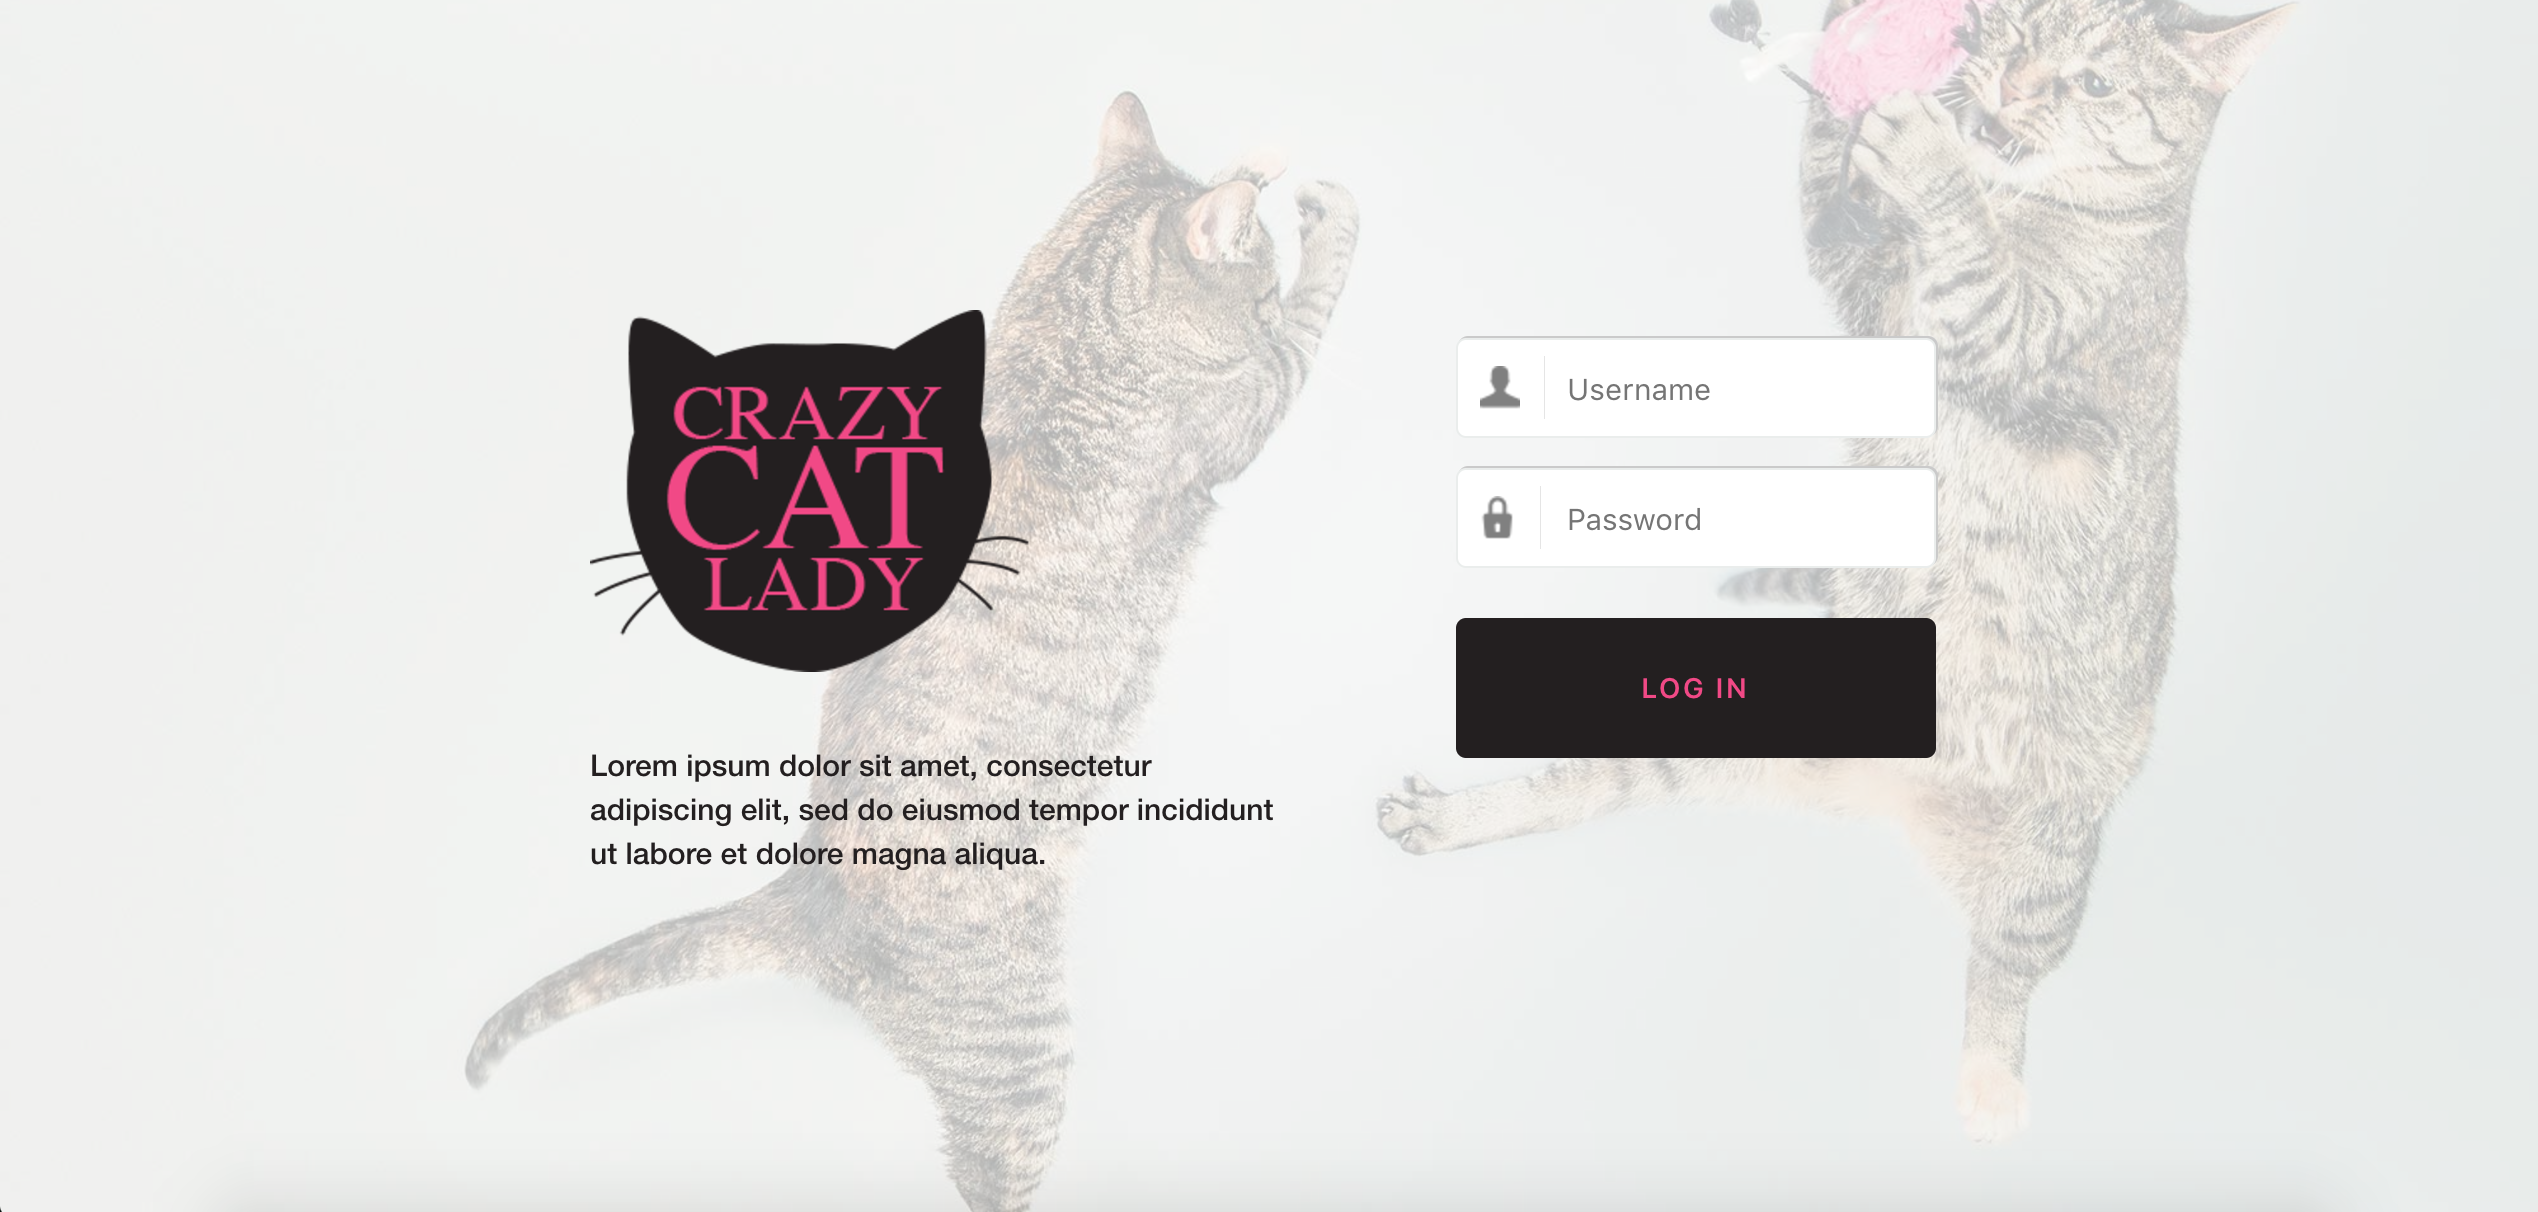
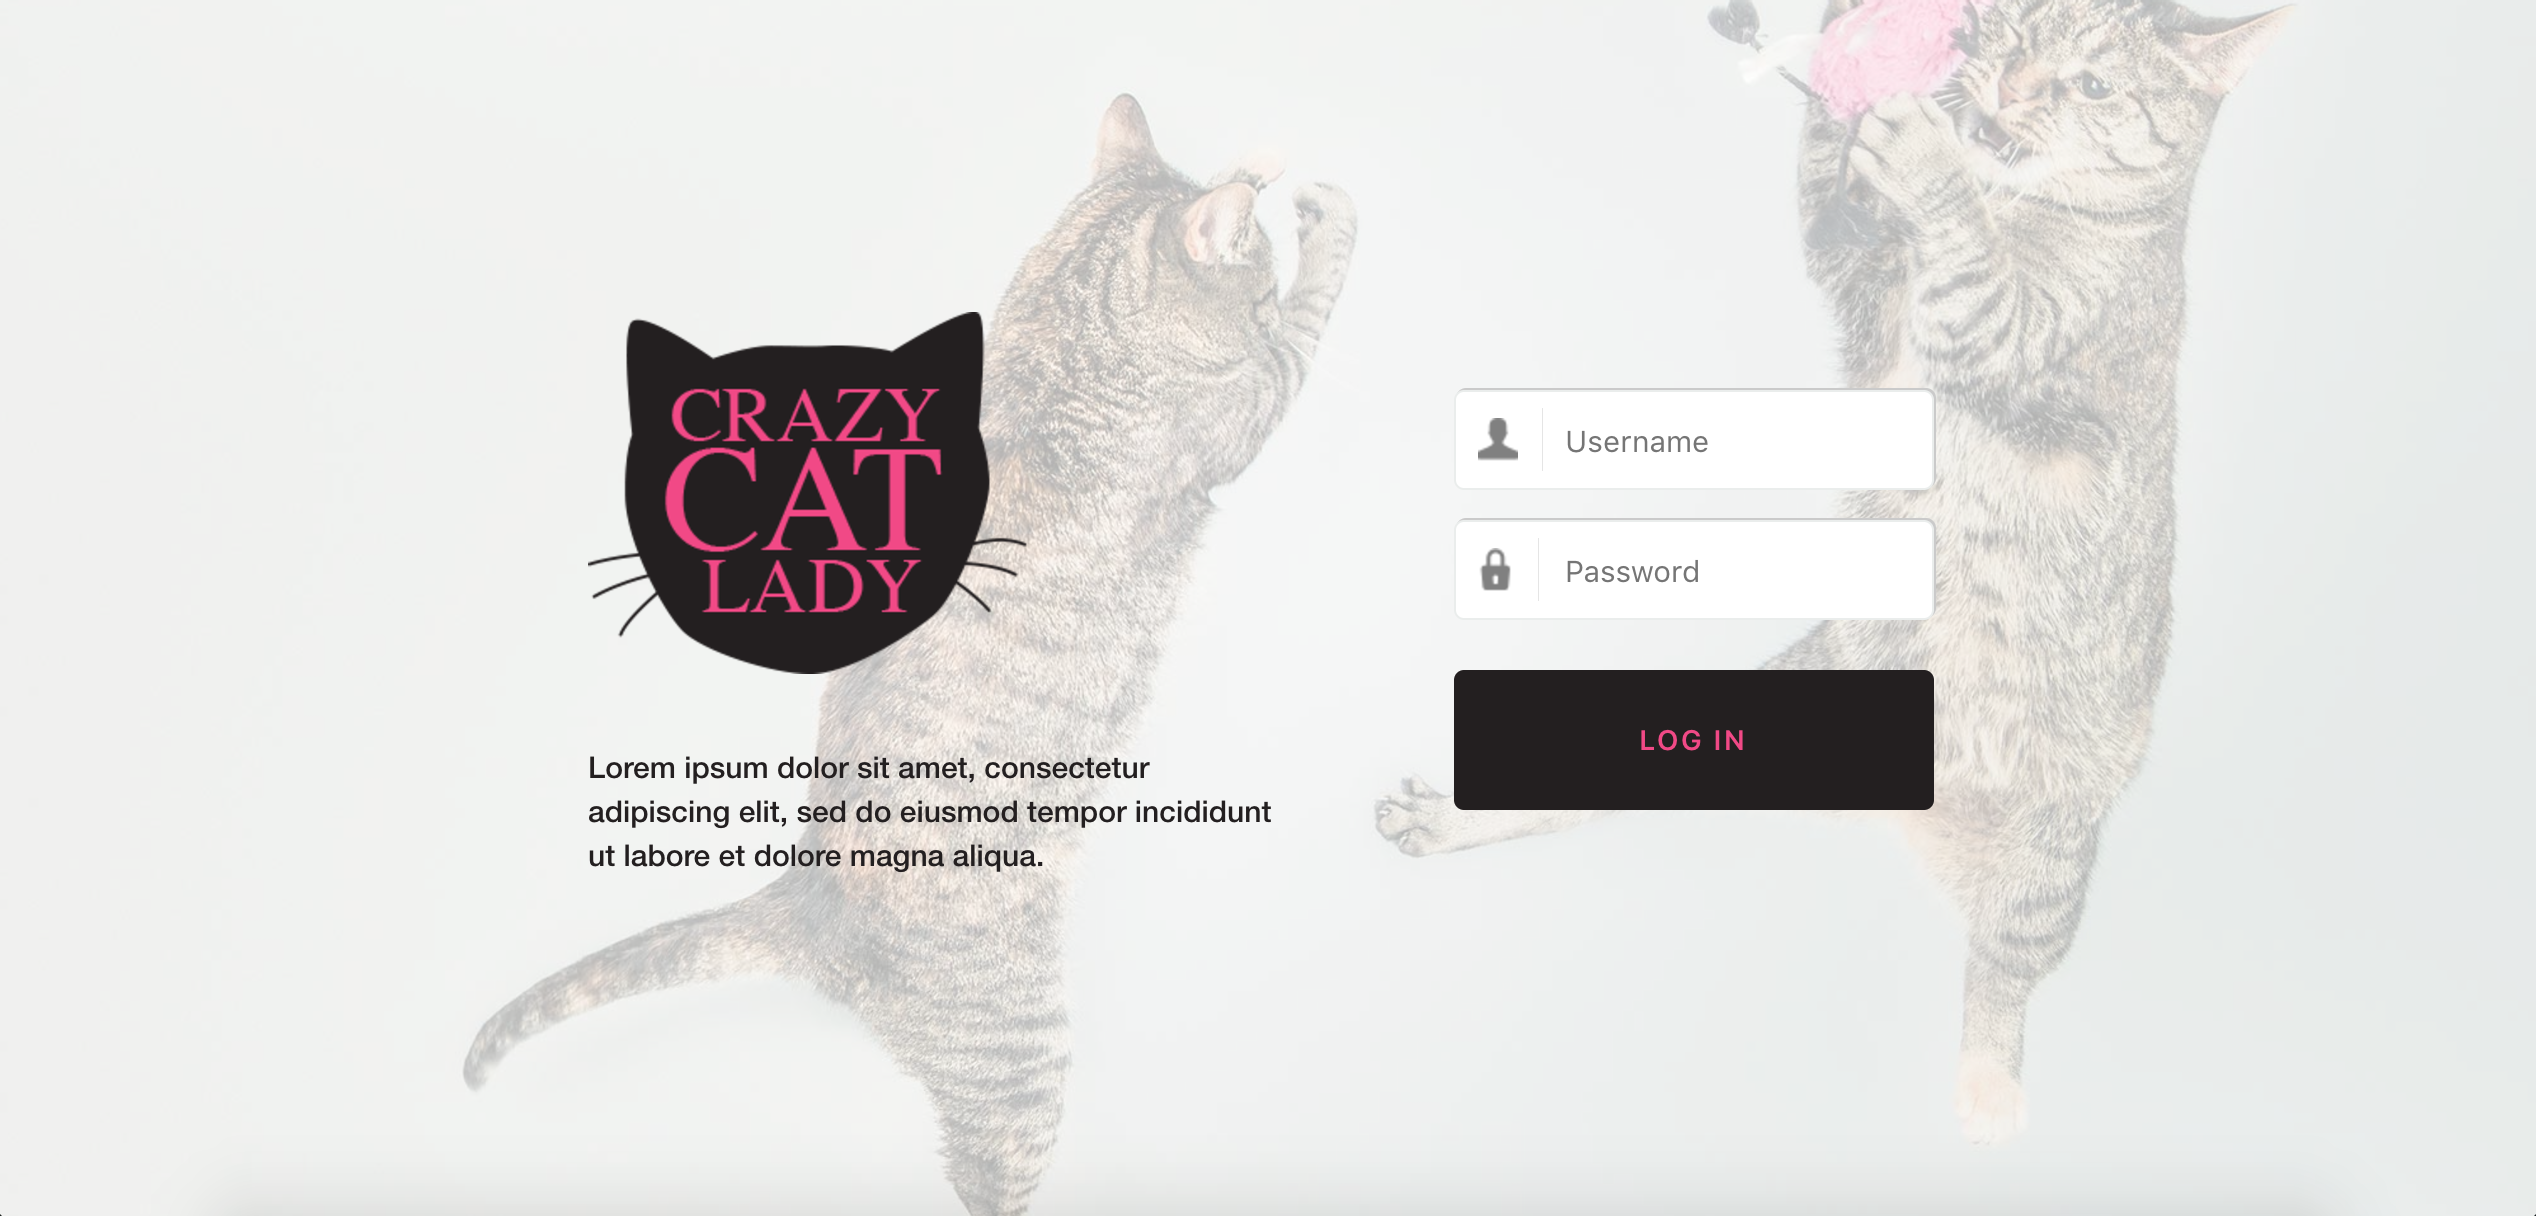
updated form margin

diff --git a/app/assets/css/style.min.css b/app/assets/css/style.min.css
@@ -6,5 +6,5 @@
  * @version 1.0.5
  * Copyright 2017. MIT licensed.
  */
-html{font-size:62.5%}body{background:#fff;color:#231f20;font-family:Lato,Helvetica Neue,Arial,Helvetica,sans-serif;font-size:14px;font-size:1.4rem;line-height:1.5;margin:0;padding:0;font-smoothing:antialiased;-webkit-font-smoothing:antialiased;-moz-font-smoothing:antialiased;-o-font-smoothing:antialiased;text-rendering:optimizeLegibility}button{background:#231f20;border:none;border-radius:5px;color:#f14986;cursor:pointer;font-weight:600;letter-spacing:1px;text-decoration:none!important;transition:all .3s ease}button:active,button:focus,button:hover{background:#f14986;color:#231f20;font-weight:800}input{border-radius:5px;cursor:default}.col2{width:50%}.input-hover{color:#231f20;opacity:1!important}.input-reg{color:#231f20;opacity:.5!important}.side-by-side{-ms-flex-direction:row;flex-direction:row}.side-by-side,.stack{display:-ms-flexbox;display:flex}.stack{-ms-flex-direction:column;flex-direction:column}.btn-full{width:100%;font-size:14px;height:70px;height:7rem;text-transform:uppercase}.input-group{-ms-flex-align:center;align-items:center;display:-ms-flexbox;display:flex;height:30px;height:3rem;margin:35px 0;margin:3.5rem 0;transition:all .3s ease;width:100%}.input-group .form-control{border:1px solid #eaedec;box-shadow:1px -1px #cacaca;font-size:15px;font-size:1.5rem;padding:15px 15px 15px 55px;padding:1.5rem 1.5rem 1.5rem 5.5rem;width:100%}.input-group .form-control:focus{outline:5px auto #f14986}.input-group:active .input-group-addon,.input-group:focus .input-group-addon,.input-group:hover .input-group-addon,.input-group:visited .input-group-addon{opacity:1!important}.input-group:active input::-webkit-input-placeholder,.input-group:focus input::-webkit-input-placeholder,.input-group:hover input::-webkit-input-placeholder,.input-group:visited input::-webkit-input-placeholder{color:#231f20;opacity:1!important}.input-group-addon{-ms-flex-align:center;align-items:center;border-right:1px solid #cacaca;display:-ms-flexbox;display:flex;padding:5px 12px;padding:.5rem 1.2rem;position:absolute;transition:all .3s ease}.login-page-background-image{background-image:url(https://s3.amazonaws.com/btp-front-end-testing/cats.jpg);background-position:50%;background-repeat:no-repeat;background-size:cover;height:100%;position:fixed;opacity:.3;width:100%;z-index:-1}.login-page-container{-ms-flex-align:center;align-items:center;display:-ms-flexbox;display:flex;height:100vh;max-width:800px;max-width:80rem;margin:auto}.login-page-container .login-header-wrapper{font-size:15px;font-weight:500;margin-left:50px;margin-left:5rem}.login-page-container .login-header-wrapper .login-header-text{padding:10px;padding:1rem}.login-page-container .logo-image{height:auto;margin:10px;margin:1rem;max-width:220px;max-width:22rem;width:60%}.login-page-container .login-form-container{margin:auto;margin-bottom:50px;margin-bottom:5rem;width:240px;width:24rem}.login-page-container .login-form-container .input-group:first-child{margin-top:0}@media (max-width:1025px){.login-page-background-image{background-position:70%}}@media (max-width:600px){.login-page-container{-ms-flex-direction:column;flex-direction:column;height:auto}.login-page-container .login-header-text{margin-bottom:45px;margin-bottom:4.5rem;padding:0 30px;padding:0 3rem}.login-page-container .logo-image{margin-top:35px;margin-top:3.5rem}.login-page-container .col2{-ms-flex-align:center;align-items:center;margin:auto;max-width:400px;max-width:40rem;text-align:center;width:100%}}
[1 lines of base64/hex data omitted]
+html{font-size:62.5%}body{background:#fff;color:#231f20;font-family:Lato,Helvetica Neue,Arial,Helvetica,sans-serif;font-size:14px;font-size:1.4rem;line-height:1.5;margin:0;padding:0;font-smoothing:antialiased;-webkit-font-smoothing:antialiased;-moz-font-smoothing:antialiased;-o-font-smoothing:antialiased;text-rendering:optimizeLegibility}button{background:#231f20;border:none;border-radius:5px;color:#f14986;cursor:pointer;font-weight:600;letter-spacing:1px;text-decoration:none!important;transition:all .3s ease}button:active,button:focus,button:hover{background:#f14986;color:#231f20;font-weight:800}input{border-radius:5px;cursor:default}.col2{width:50%}.input-hover{color:#231f20;opacity:1!important}.input-reg{color:#231f20;opacity:.5!important}.side-by-side{-ms-flex-direction:row;flex-direction:row}.side-by-side,.stack{display:-ms-flexbox;display:flex}.stack{-ms-flex-direction:column;flex-direction:column}.btn-full{width:100%;font-size:14px;height:70px;height:7rem;text-transform:uppercase}.input-group{-ms-flex-align:center;align-items:center;display:-ms-flexbox;display:flex;height:30px;height:3rem;margin:35px 0;margin:3.5rem 0;transition:all .3s ease;width:100%}.input-group .form-control{border:1px solid #eaedec;box-shadow:1px -1px #cacaca;font-size:15px;font-size:1.5rem;padding:15px 15px 15px 55px;padding:1.5rem 1.5rem 1.5rem 5.5rem;width:100%}.input-group .form-control:focus{outline:5px auto #f14986}.input-group:active .input-group-addon,.input-group:focus .input-group-addon,.input-group:hover .input-group-addon,.input-group:visited .input-group-addon{opacity:1!important}.input-group:active input::-webkit-input-placeholder,.input-group:focus input::-webkit-input-placeholder,.input-group:hover input::-webkit-input-placeholder,.input-group:visited input::-webkit-input-placeholder{color:#231f20;opacity:1!important}.input-group-addon{-ms-flex-align:center;align-items:center;border-right:1px solid #cacaca;display:-ms-flexbox;display:flex;padding:5px 12px;padding:.5rem 1.2rem;position:absolute;transition:all .3s ease}.login-page-background-image{background-image:url(https://s3.amazonaws.com/btp-front-end-testing/cats.jpg);background-position:50%;background-repeat:no-repeat;background-size:cover;height:100%;position:fixed;opacity:.3;width:100%;z-index:-1}.login-page-container{-ms-flex-align:center;align-items:center;display:-ms-flexbox;display:flex;height:100vh;max-width:800px;max-width:80rem;margin:auto}.login-page-container .login-header-wrapper{font-size:15px;font-weight:500;margin-left:50px;margin-left:5rem}.login-page-container .login-header-wrapper .login-header-text{padding:10px;padding:1rem}.login-page-container .logo-image{height:auto;margin:10px;margin:1rem;max-width:220px;max-width:22rem;width:60%}.login-page-container .login-form-container{margin:auto;width:240px;width:24rem}.login-page-container .login-form-container .input-group:first-child{margin-top:0}@media (max-width:1025px){.login-page-background-image{background-position:70%}}@media (max-width:600px){.login-page-container{-ms-flex-direction:column;flex-direction:column;height:auto}.login-page-container .login-header-text{margin-bottom:45px;margin-bottom:4.5rem;padding:0 30px;padding:0 3rem}.login-page-container .logo-image{margin-top:35px;margin-top:3.5rem}.login-page-container .col2{-ms-flex-align:center;align-items:center;margin:auto;max-width:400px;max-width:40rem;text-align:center;width:100%}.login-page-container .login-form-container{margin-bottom:50px;margin-bottom:5rem}}
[1 lines of base64/hex data omitted]

diff --git a/app/assets/css/style.css b/app/assets/css/style.css
@@ -260,16 +260,6 @@ input {
     /* 6 */
     /* 6 */
     /* 7 */
-    margin-bottom: 50px;
-    /* 9 */
-    margin-bottom: 5rem;
-    /* 9 */
-    /* 3 */
-    /* 3 */
-    /* 4 */
-    /* 6 */
-    /* 6 */
-    /* 7 */
     width: 240px;
     /* 9 */
     width: 24rem;
@@ -335,4 +325,15 @@ input {
       max-width: 40rem;
       /* 9 */
       text-align: center;
-      width: 100%; } }
+      width: 100%; }
+    .login-page-container .login-form-container {
+      /* 3 */
+      /* 3 */
+      /* 4 */
+      /* 6 */
+      /* 6 */
+      /* 7 */
+      margin-bottom: 50px;
+      /* 9 */
+      margin-bottom: 5rem;
+      /* 9 */ } }

diff --git a/src/scss/style.scss b/src/scss/style.scss
@@ -244,7 +244,6 @@ input {
 
   .login-form-container {
     margin: auto;
-    @include rem(margin-bottom, 50px);
     @include rem(width, 240px);
 
     .input-group:first-child {
@@ -285,6 +284,10 @@ input {
       @include rem(max-width, 400px);
       text-align: center;
       width: 100%;
+    }
+
+    .login-form-container {
+      @include rem(margin-bottom, 50px);
     }
   }
 }
